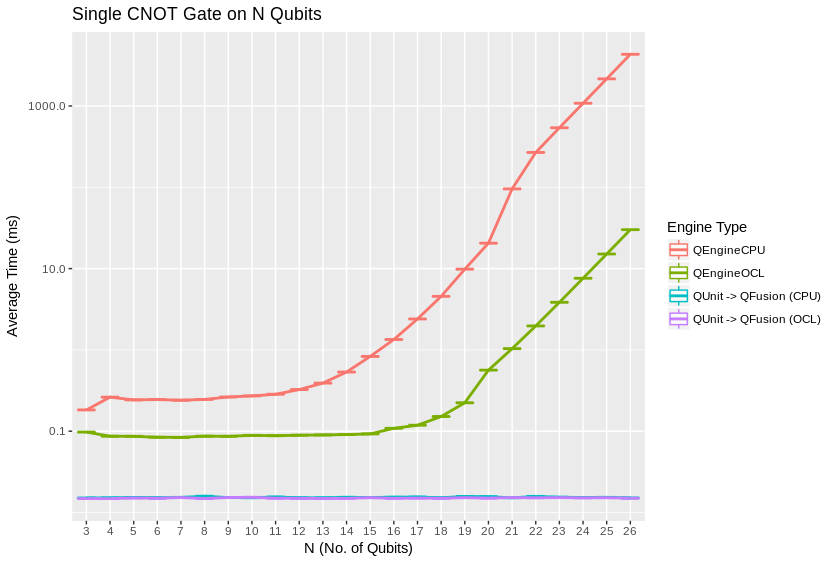
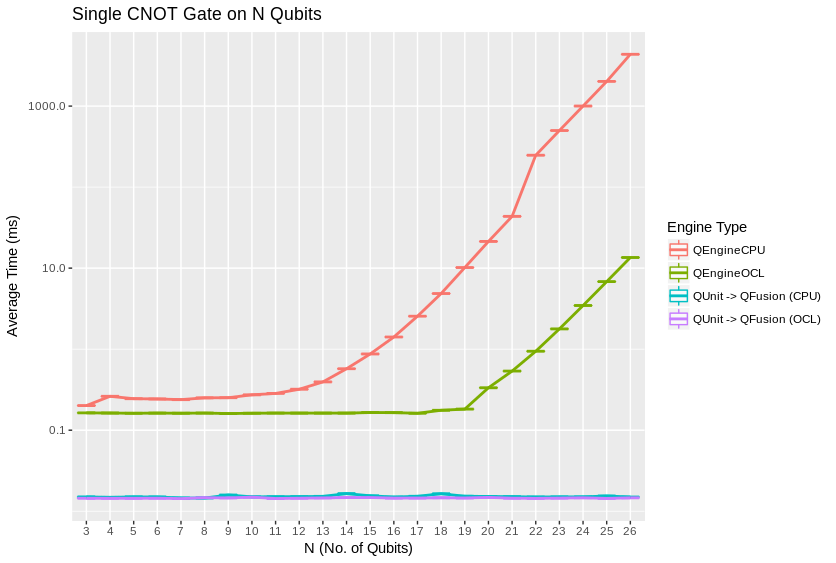
12-8-18 benchmarks

diff --git a/docs/performance.rst b/docs/performance.rst
@@ -75,7 +75,7 @@ Disclaimers
 Method
 ******
 
-100 timed trials of single and parallel gates were run for each qubit count between 3 and 28 qubits. The benchmarking code is available at `https://github.com/vm6502q/qrack/blob/master/test/benchmarks.cpp <https://github.com/vm6502q/qrack/blob/master/test/benchmarks.cpp>`_, in which qubit count can be set and tests can be commented out to reduce to the relevant subset. CPU and GPU benchmarks were run on two respective systems that could represent realistic use cases for each engine type. An AWS p3.2xlarge running Ubuntu Server 18.04LTS was used for GPU benchmarks. An Alienware 17 R5 with an Intel(R) Core(TM) i7-8750H running Ubuntu 18.04LTS was used for Qrack CPU benchmarks. The test results were collected from 11/25/18 to 12/2/18. The average and quartile boundary values of each set of 100 were recorded and graphed. Grover's search to invert a black box subroutine, or "oracle," was similarly implemented for trials between 3 and 18 qubits. Grover's algorithm was iterated an optimal number of times, vs. qubit count, to maximize probability on a half cycle of the algorithm's period, being :math:`floor\left[\frac{\pi}{4asin\left(1/\sqrt{2^N}\right)}\right]` iterations for :math:`N` qubits.
+100 timed trials of single and parallel gates were run for each qubit count between 3 and 28 qubits. The benchmarking code is available at `https://github.com/vm6502q/qrack/blob/master/test/benchmarks.cpp <https://github.com/vm6502q/qrack/blob/master/test/benchmarks.cpp>`_, in which qubit count can be set and tests can be commented out to reduce to the relevant subset. CPU and GPU benchmarks were run on two respective systems that could represent realistic use cases for each engine type. An AWS p3.2xlarge running Ubuntu Server 18.04LTS was used for GPU benchmarks. An Alienware 17 R5 with an Intel(R) Core(TM) i7-8750H running Ubuntu 18.04LTS was used for Qrack CPU benchmarks. The test results were collected from 11/25/18 to 12/8/18. The average and quartile boundary values of each set of 100 were recorded and graphed. Grover's search to invert a black box subroutine, or "oracle," was similarly implemented for trials between 3 and 18 qubits. Grover's algorithm was iterated an optimal number of times, vs. qubit count, to maximize probability on a half cycle of the algorithm's period, being :math:`floor\left[\frac{\pi}{4asin\left(1/\sqrt{2^N}\right)}\right]` iterations for :math:`N` qubits.
 
 A quantum fourier transform was run for 100 trials between 3 and 26 qubits on the GPU engine types. ProjectQ and QCGPU were also benchmarked for this test, on an AWS p3.2xlarge running Ubuntu Server 18.04LTS, with the benchmarking code provided by QCGPU, accessed from its Github repository on 12/1/18, in Python 3. The benchmarking script from QCGPU iterates at random between the engine options. 200 total trials were run for the set of QCGPU and ProjectQ, selected by approximately equal probability random chance in each of the 200 iterations.
 
@@ -98,7 +98,7 @@ QEngineCPU and QEngineOCL can perform many identical gates in parallel across en
 
 .. image:: performance/cnot_all.png
 
-Heap sampling showed high confidence adherence to theoretical expecations. Complex numbers are represented as 2 double (64-bit) or 2 single (32-bit) accuracy floating point types, for real and imaginary components. The use of double or single precision is controlled by a compilation flag. There is one complex number per permutation in a separable subsystem of qubits. QUnit explicitly separates subsystems, while QEngine maintains complex amplitudes for all :math:`2^N` permutations of :math:`N` qubits. QEngines duplicate their state vectors once during most gates for speed and simplicity where it eases implementation.
+Heap sampling showed high confidence adherence to theoretical expecations. Complex numbers are represented as 2 single (32-bit) or 2 double (64-bit) accuracy floating point types, for real and imaginary components. The use of double or single precision is controlled by a compilation flag. There is one complex number per permutation in a separable subsystem of qubits. QUnit explicitly separates subsystems, while QEngine maintains complex amplitudes for all :math:`2^N` permutations of :math:`N` qubits. QEngines duplicate their state vectors once during most gates for speed and simplicity where it eases implementation.
 
 .. image:: performance/qrack_ram.png
 
@@ -114,16 +114,18 @@ The Quantum Fourier transform (QFT) is another realistic test case. Other simula
 
 QEngineCPU took approximately 100 seconds per 1 trial (of 100) for 22 qubits and approximately 200 seconds for a 23 qubit QFT, and testing the QEngineCPU type therefore become prohibitive, for the full range of qubits between 3 and 26. To avoid confusion in the graph, and since QEngineCPU might therefore be impractical for large QFTs, we leave both it and its QUnit/QFusion variant off the graph.
 
+For Qrack, both the amount of time the GPU was blocked for execution ("GPU Time") and the time for asynchronous gate methods to return, while work continues to run on the GPU ("Async Return") are shown. The difference between these two graphs is potentially recoverable for (light to moderate) auxiliary execution of work on the host CPU, while the GPU works asynchronously.
+
 .. image:: performance/qft.png
 
-For lower numbers of qubits, QEngineOCL outperforms QCGPU. Both simulators follow a smooth exponential trend that appears to reach a knee of faster exponential growth. The "knee" comes at a lower number of qubits for QEngineOCL than for QCGPU, at about 18 qubits versus 24. There is no such "knee" apparent for the QUnit -> QFusion layers on top of a QEngine type. We will analyze the comparative results in the discussion section.
+For lower numbers of qubits, QEngineOCL outperforms QCGPU. Both simulators follow an exponential trend that appears to reach a knee of faster growth. The "knee" comes at a lower number of qubits for QEngineOCL than for QCGPU, at about 18 qubits of GPU time and 21 qubits of asynchronous host dispatch versus 25 or 24 qubits for QCGPU. There is no such "knee" apparent for the QUnit -> QFusion layers on top of a QEngine type. We will analyze the comparative results in the discussion section.
 
 Discussion
 **********
 
 Up to a consistent deviation at low qubit counts, speed and RAM usage is well predicted by theoretical complexity considerations of the gates, up to a factor of 2 on heap usage for duplication of the state vector.
 
-In the comparative QFT benchmarks, the difference between QCGPU and Qrack in the "knee" in the base engine might be partially do to scalable work distribution in the OpenCL kernels. QEngineOCL is written to distribute work among an arbitrarily small number of processing elements and max work item size. Max work item size is a device-specific hardware parameter limiting how many work items may be dispatched in an OpenCL kernel call. QEngineOCL can distribute large numbers of probability amplitude transformations to small numbers of work items, incurring additional looping overhead, whereas QCGPU is written to dispatch one work item to one processing element. QCGPU requires a large enough hardware max work item size to add higher numbers of qubits, which might or not might not prove prohibitive in addressing the largest possible amount of general RAM. Additionally, Qrack normalizes its state vector at on-the-fly opportunities, to correct for float rounding error, incurring overhead costs but benefiting the accuracy of the simulation over very long strings of gate applications.
+In the comparative QFT benchmarks, the difference between QCGPU and Qrack in the "knee" in the base engine might be partially due to scalable work distribution in the OpenCL kernels. QEngineOCL is written to distribute work among an arbitrarily small number of processing elements and max work item size. Max work item size is a device-specific hardware parameter limiting how many work items may be dispatched in an OpenCL kernel call. QEngineOCL can distribute large numbers of probability amplitude transformations to small numbers of work items, incurring additional looping overhead, whereas QCGPU is written to dispatch one work item to one processing element. QCGPU requires a large enough hardware max work item size to add higher numbers of qubits, which might or not might not prove prohibitive in addressing the largest possible amount of general RAM. Additionally, Qrack normalizes its state vector at on-the-fly opportunities, to correct for float rounding error, incurring overhead costs but benefiting the accuracy of the simulation over very long strings of gate applications. QEngineOCL was also designed to support thread-safe parallel access to the QEngine and the OpenCL device queues it uses, as well as out-of-order OpenCL queue execution, which might add host overhead.
 
 Further Work
 ************
